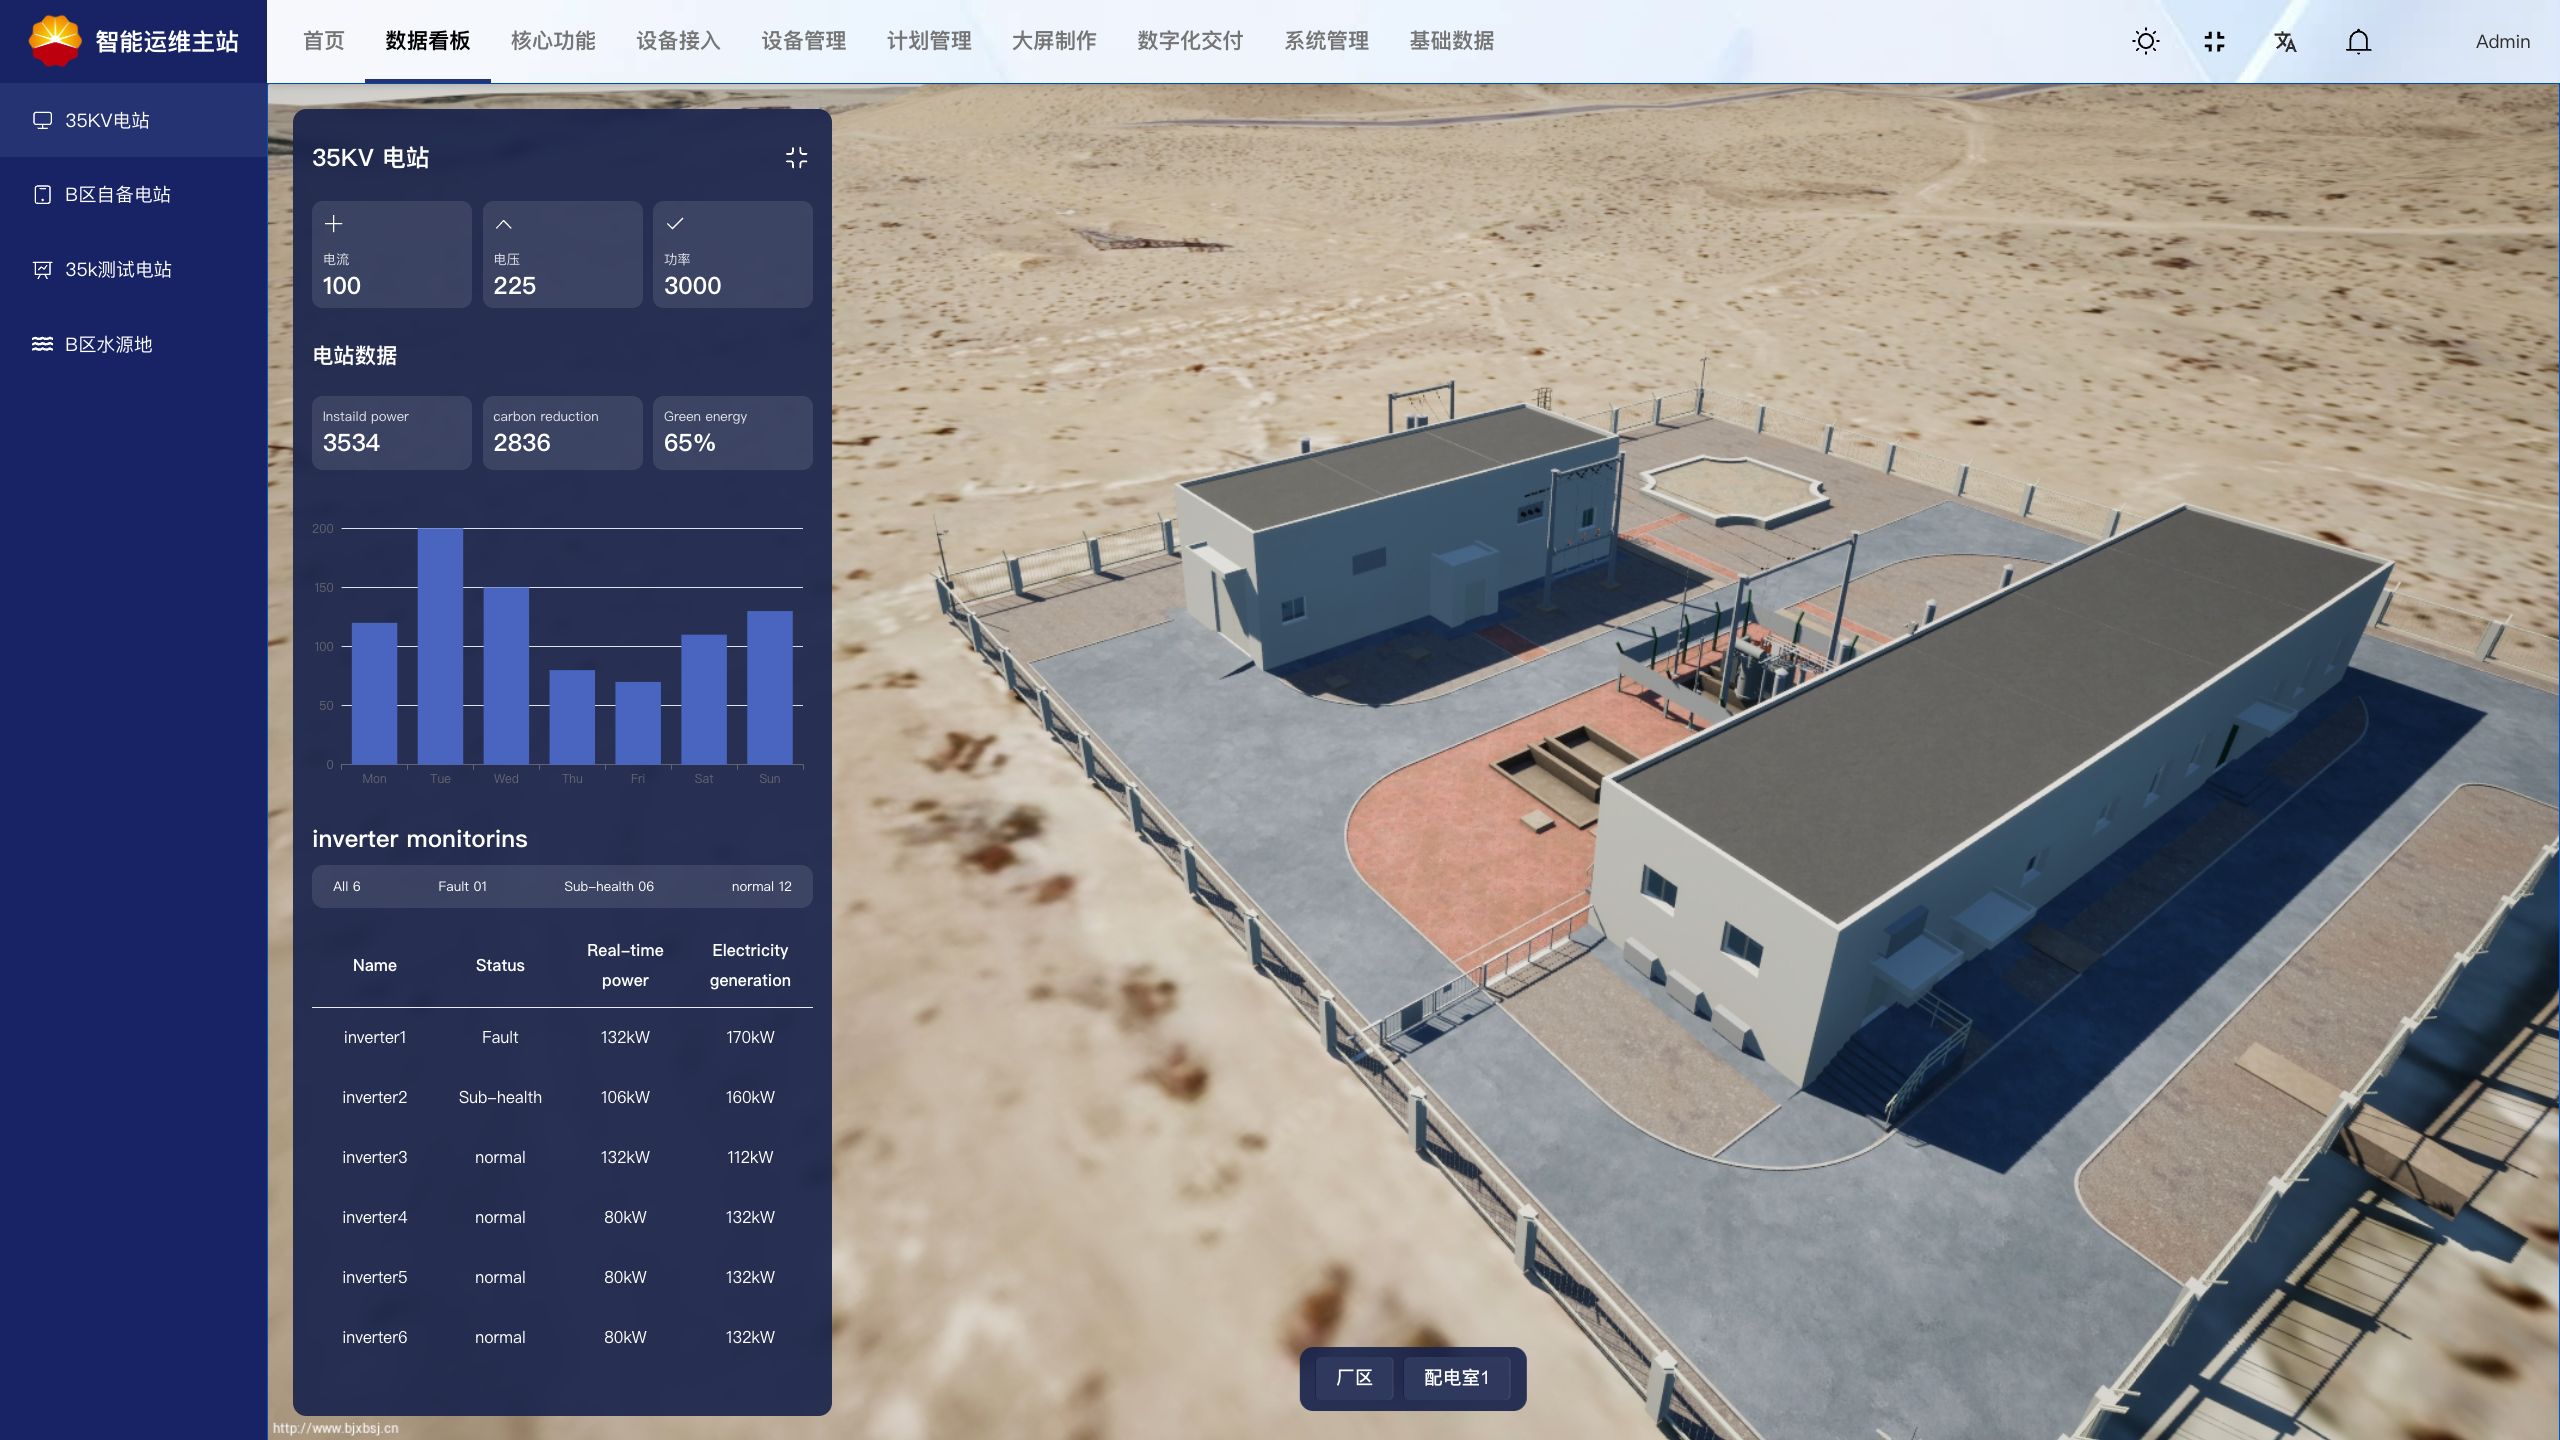
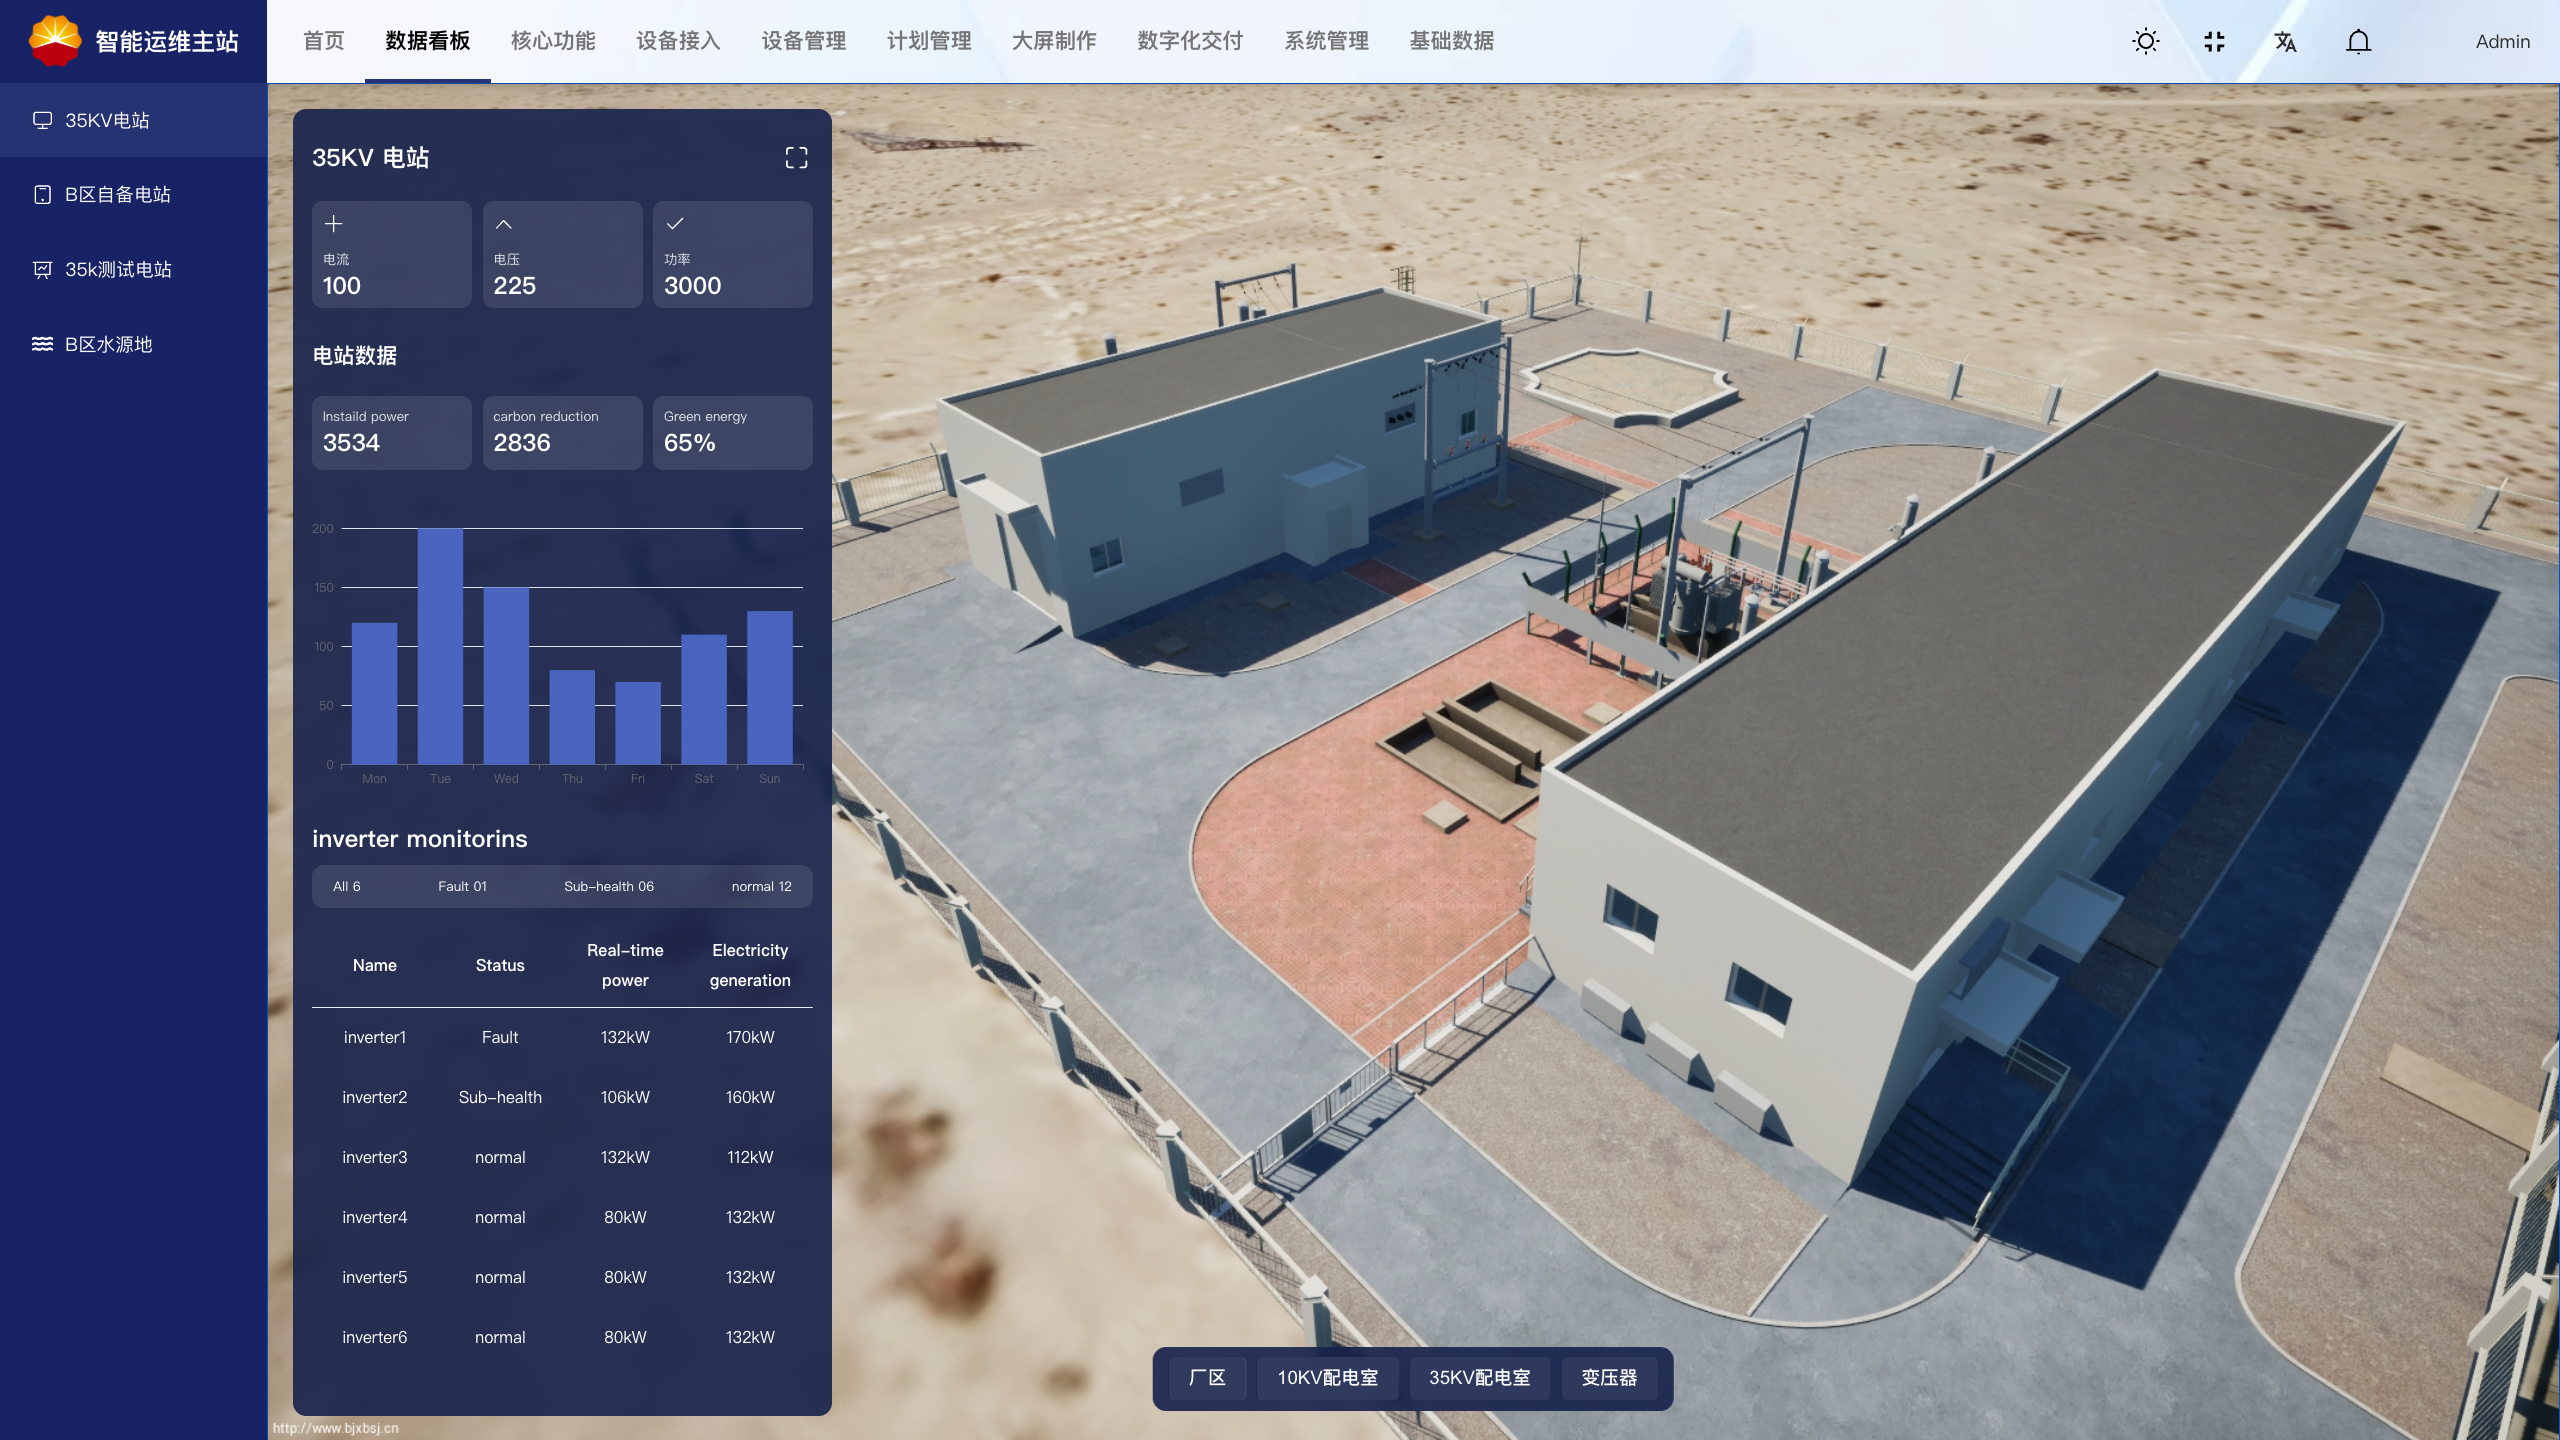
feat: update skills, projects

diff --git a/src/components/TechStack.tsx b/src/components/TechStack.tsx
@@ -8,23 +8,39 @@ import TitleHeader from "../components/TitleHeader";
 const techStackImgs = [
   {
     name: "React Developer",
-    imgPath: "/images/logos/react.png",
+    imgPath: "/images/logos/React.png",
   },
   {
-    name: "Python Developer",
-    imgPath: "/images/logos/python.svg",
+    name: "Vue Developer",
+    imgPath: "/images/logos/Vue.png",
+  },
+  {
+    name: "Flutter Developer",
+    imgPath: "/images/logos/Flutter.png",
   },
   {
     name: "Backend Developer",
-    imgPath: "/images/logos/node.png",
+    imgPath: "/images/logos/Nestjs.png",
+  },
+  {
+    name: "Next Developer",
+    imgPath: "/images/logos/nextjs.png",
+  },
+  {
+    name: "Uniapp Developer",
+    imgPath: "/images/logos/uni-app.png",
   },
   {
     name: "Interactive Developer",
-    imgPath: "/images/logos/three.png",
+    imgPath: "/images/logos/Threejs.png",
+  },
+  {
+    name: "UI/UX Designer",
+    imgPath: "/images/logos/Ui-Ux.png",
   },
   {
     name: "Project Manager",
-    imgPath: "/images/logos/git.svg",
+    imgPath: "/images/logos/git.png",
   },
 ];
 
@@ -75,7 +91,7 @@ const TechStack = () => {
               <div className="absolute left-0 bottom-[-100%] w-full h-full bg-gray-300 dark:bg-gray-900 group-hover:bottom-0 transition-all duration-700" />
               <div className="flex flex-col md:justify-center items-center xl:gap-5 xl:h-[50vh] overflow-hidden relative z-10 group-hover:cursor-grab p-6">
                 <div className="flex justify-center items-center w-52 h-60 relative">
-                  <img src={techStackIcon.imgPath} alt={techStackIcon.name} className="max-w-full h-auto" />
+                  <img src={techStackIcon.imgPath} alt={techStackIcon.name} className="max-w-3/4 h-auto" />
                 </div>
                 <div className="w-full">
                   <p className="text-lg 2xl:text-2xl pb-5 xl:pb-0 font-semibold text-gray-900 dark:text-gray-100 text-center">{techStackIcon.name}</p>

diff --git a/src/components/Hero.tsx b/src/components/Hero.tsx
@@ -9,7 +9,7 @@ export default async function Hero() {
     <section id="hero" className="relative overflow-hidden">
       <div className="relative z-1 xl:mt-10 mt-32 md:h-dvh h-[80vh] flex xl:items-center items-start justify-center">
         <header className="flex flex-col justify-center md:w-full w-screen md:px-20 px-5 ml-16">
-          <div className="flex flex-col gap-7">
+          <div className="flex flex-col gap-7 max-w-2xl">
             <div className="flex flex-col justify-center md:text-[60px] text-[30px] font-semibold relative z-10 pointer-events-none">
               <h1 className="mb-4">{t("title")}</h1>
               <p className="md:text-xl relative z-10 pointer-events-none mb-8">
@@ -30,7 +30,7 @@ export default async function Hero() {
         </header>
 
         <figure>
-          <div className="xl:w-[70%] w-full h-full min-h-[50vh] absolute xl:-top-10 top-24 xl:-right-20 right-0">
+          <div className="xl:w-[70%] w-full h-full min-h-[50vh] absolute xl:-top-10 top-24 xl:-right-20 right-0" style={{zIndex: -1}}>
             <HeroExperience />
           </div>
         </figure>

diff --git a/src/components/SideBar.tsx b/src/components/SideBar.tsx
@@ -8,11 +8,10 @@ import {
 const navLinks = [
   { name: "Home", link: "#hero", icon: "ph:house-duotone" },
   { name: "Work", link: "#work", icon: "ph:briefcase-duotone" },
-  { name: "Experience", link: "#experience", icon: "ph:medal-duotone" },
   { name: "Skills", link: "#skills", icon: "ph:code-duotone" },
   {
-    name: "Testimonials",
-    link: "#testimonials",
+    name: "Contact",
+    link: "#contact",
     icon: "ph:chat-circle-text-duotone",
   },
 ];

diff --git a/src/components/ShowcaseSection.tsx b/src/components/ShowcaseSection.tsx
@@ -68,7 +68,7 @@ const ShowcaseSection = () => {
       link: "",
     },
     nextStack: {
-      name: "Next Stack",
+      name: "NextStack",
       description: "我的博客，基于Next.js",
       image: "/images/next-stack.png",
       link: "https://next-stack-ten.vercel.app/",
